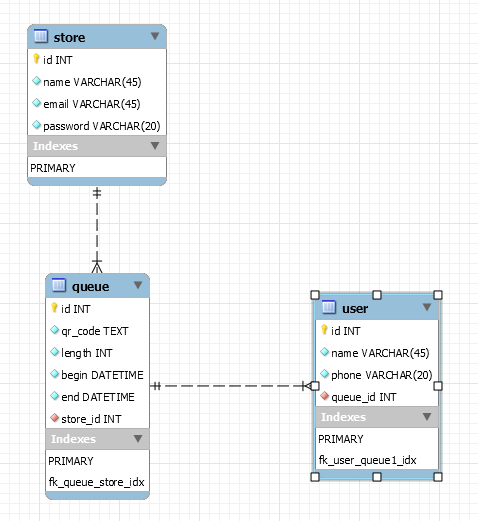
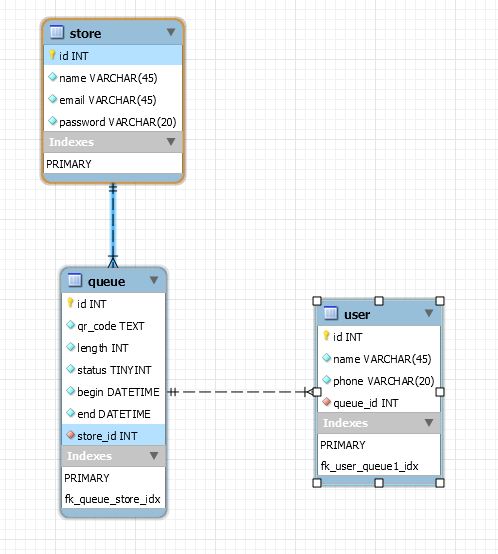
attribute status added to entity Queue

diff --git a/src/main/java/br/sc/senai/model/Queue.java b/src/main/java/br/sc/senai/model/Queue.java
@@ -1,6 +1,7 @@
 package br.sc.senai.model;
 
 import javax.persistence.*;
+import java.util.List;
 
 @Entity
 @Table(name = "queue")
@@ -14,9 +15,18 @@ public class Queue {
 
     private int length;
 
+    private boolean status;
+
     private String begin;
 
     private String end;
+
+    @OneToMany(mappedBy = "queue", fetch = FetchType.LAZY)
+    private List<User> users;
+
+    @ManyToOne
+    @JoinColumn(name = "store_id")
+    private Store store;
 
     public Integer getId() {
         return id;
@@ -42,6 +52,14 @@ public class Queue {
         this.length = length;
     }
 
+    public boolean isStatus() {
+        return status;
+    }
+
+    public void setStatus(boolean status) {
+        this.status = status;
+    }
+
     public String getBegin() {
         return begin;
     }
@@ -56,5 +74,21 @@ public class Queue {
 
     public void setEnd(String end) {
         this.end = end;
+    }
+
+    public List<User> getUsers() {
+        return users;
+    }
+
+    public void setUsers(List<User> users) {
+        this.users = users;
+    }
+
+    public Store getStore() {
+        return store;
+    }
+
+    public void setStore(Store store) {
+        this.store = store;
     }
 }

diff --git a/src/main/java/br/sc/senai/model/User.java b/src/main/java/br/sc/senai/model/User.java
@@ -1,11 +1,10 @@
 package br.sc.senai.model;
 
 import java.io.Serializable;
-
 import javax.persistence.*;
 
 @Entity
-@Table(name="TB_USER")
+@Table(name="user")
 public class User implements Serializable {
 
     private static final long serialVersionUID = 1L;
@@ -18,9 +17,9 @@ public class User implements Serializable {
 
     private String telephone;
 
-    //@ManyToOne
-    //@JoinColumn(name="queue_id")
-    //private Queue queue;
+    @ManyToOne
+    @JoinColumn(name="queue_id")
+    private Queue queue;
 
     public long getId() {
         return id;
@@ -46,11 +45,11 @@ public class User implements Serializable {
         this.telephone = telephone;
     }
 
-    //public Queue getQueue() {
-    // return queue;
-    //}
+    public Queue getQueue() {
+     return queue;
+    }
 
-    //public void setQueue(Queue queue) {
-    //  this.queue = queue;
-    //}
+    public void setQueue(Queue queue) {
+      this.queue = queue;
+    }
 }

diff --git a/src/main/java/br/sc/senai/model/Store.java b/src/main/java/br/sc/senai/model/Store.java
@@ -1,9 +1,10 @@
 package br.sc.senai.model;
 
 import javax.persistence.*;
+import java.util.List;
 
 @Entity
-@Table(name = "stores")
+@Table(name = "store")
 public class Store {
 
     @Id
@@ -15,6 +16,9 @@ public class Store {
     private String email;
 
     private String password;
+
+   @OneToMany(mappedBy = "store", fetch = FetchType.LAZY)
+    private List<Queue> queues;
 
     public Integer getId() {
         return id;
@@ -46,5 +50,13 @@ public class Store {
 
     public void setPassword(String password) {
         this.password = password;
+    }
+
+    public List<Queue> getQueues() {
+        return queues;
+    }
+
+    public void setQueues(List<Queue> queues) {
+        this.queues = queues;
     }
 }
